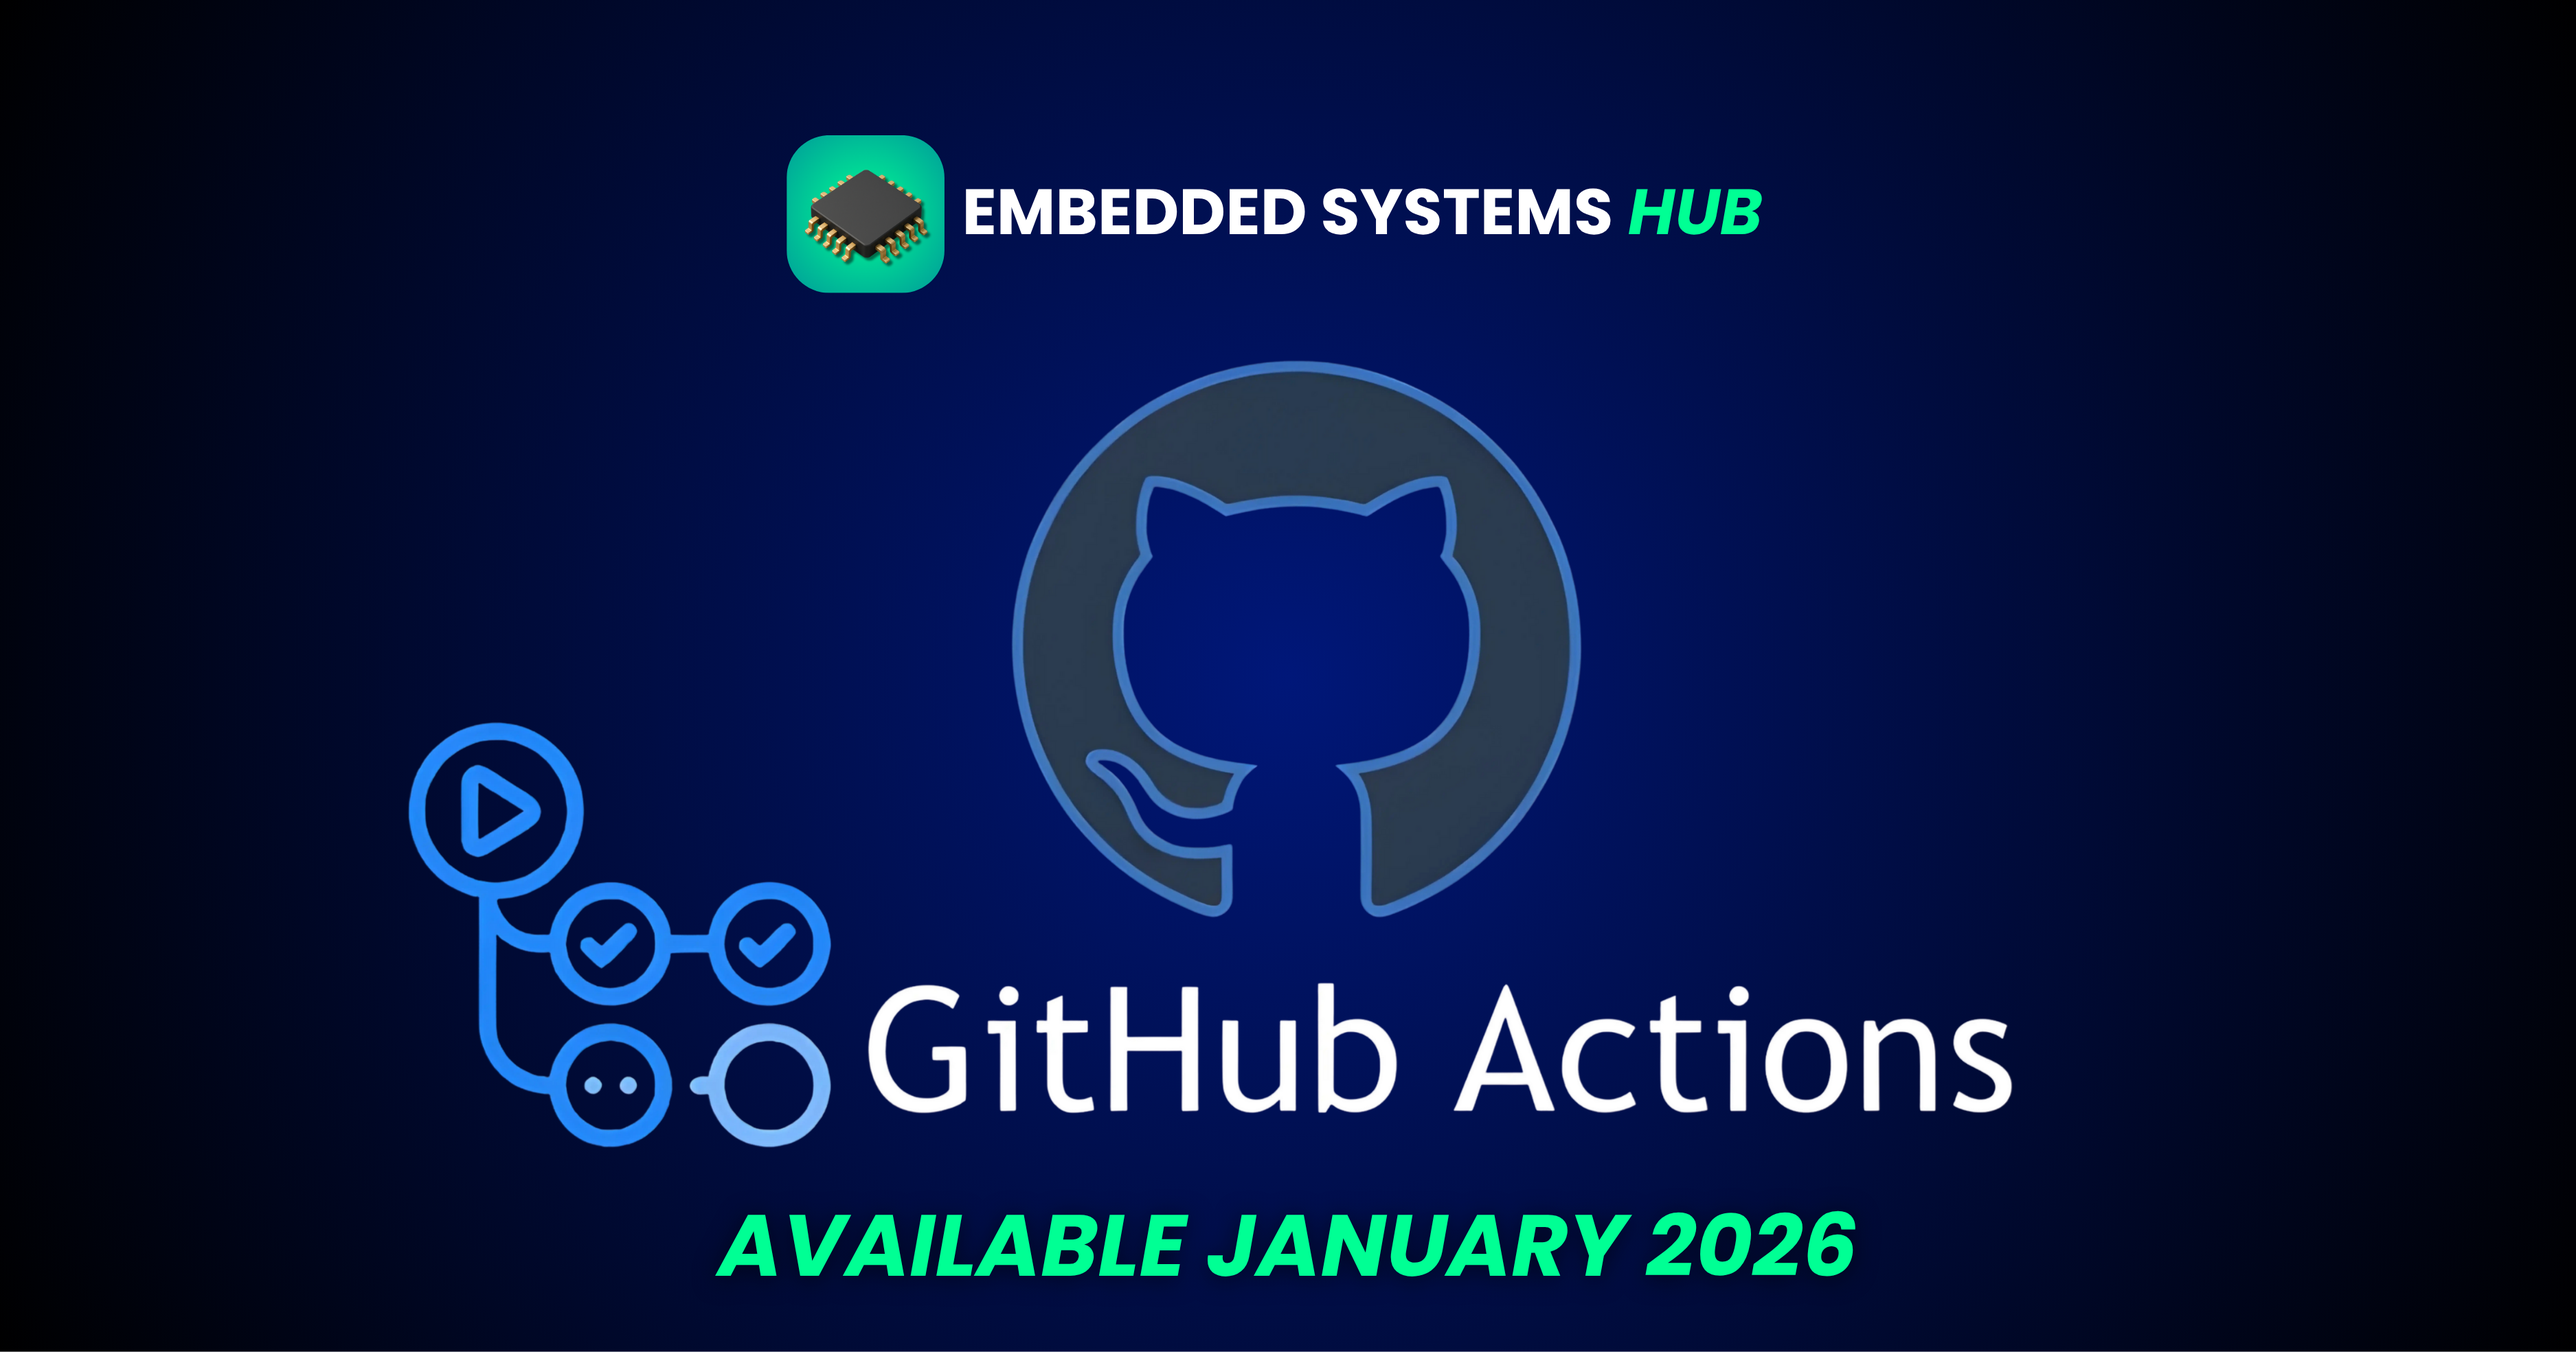
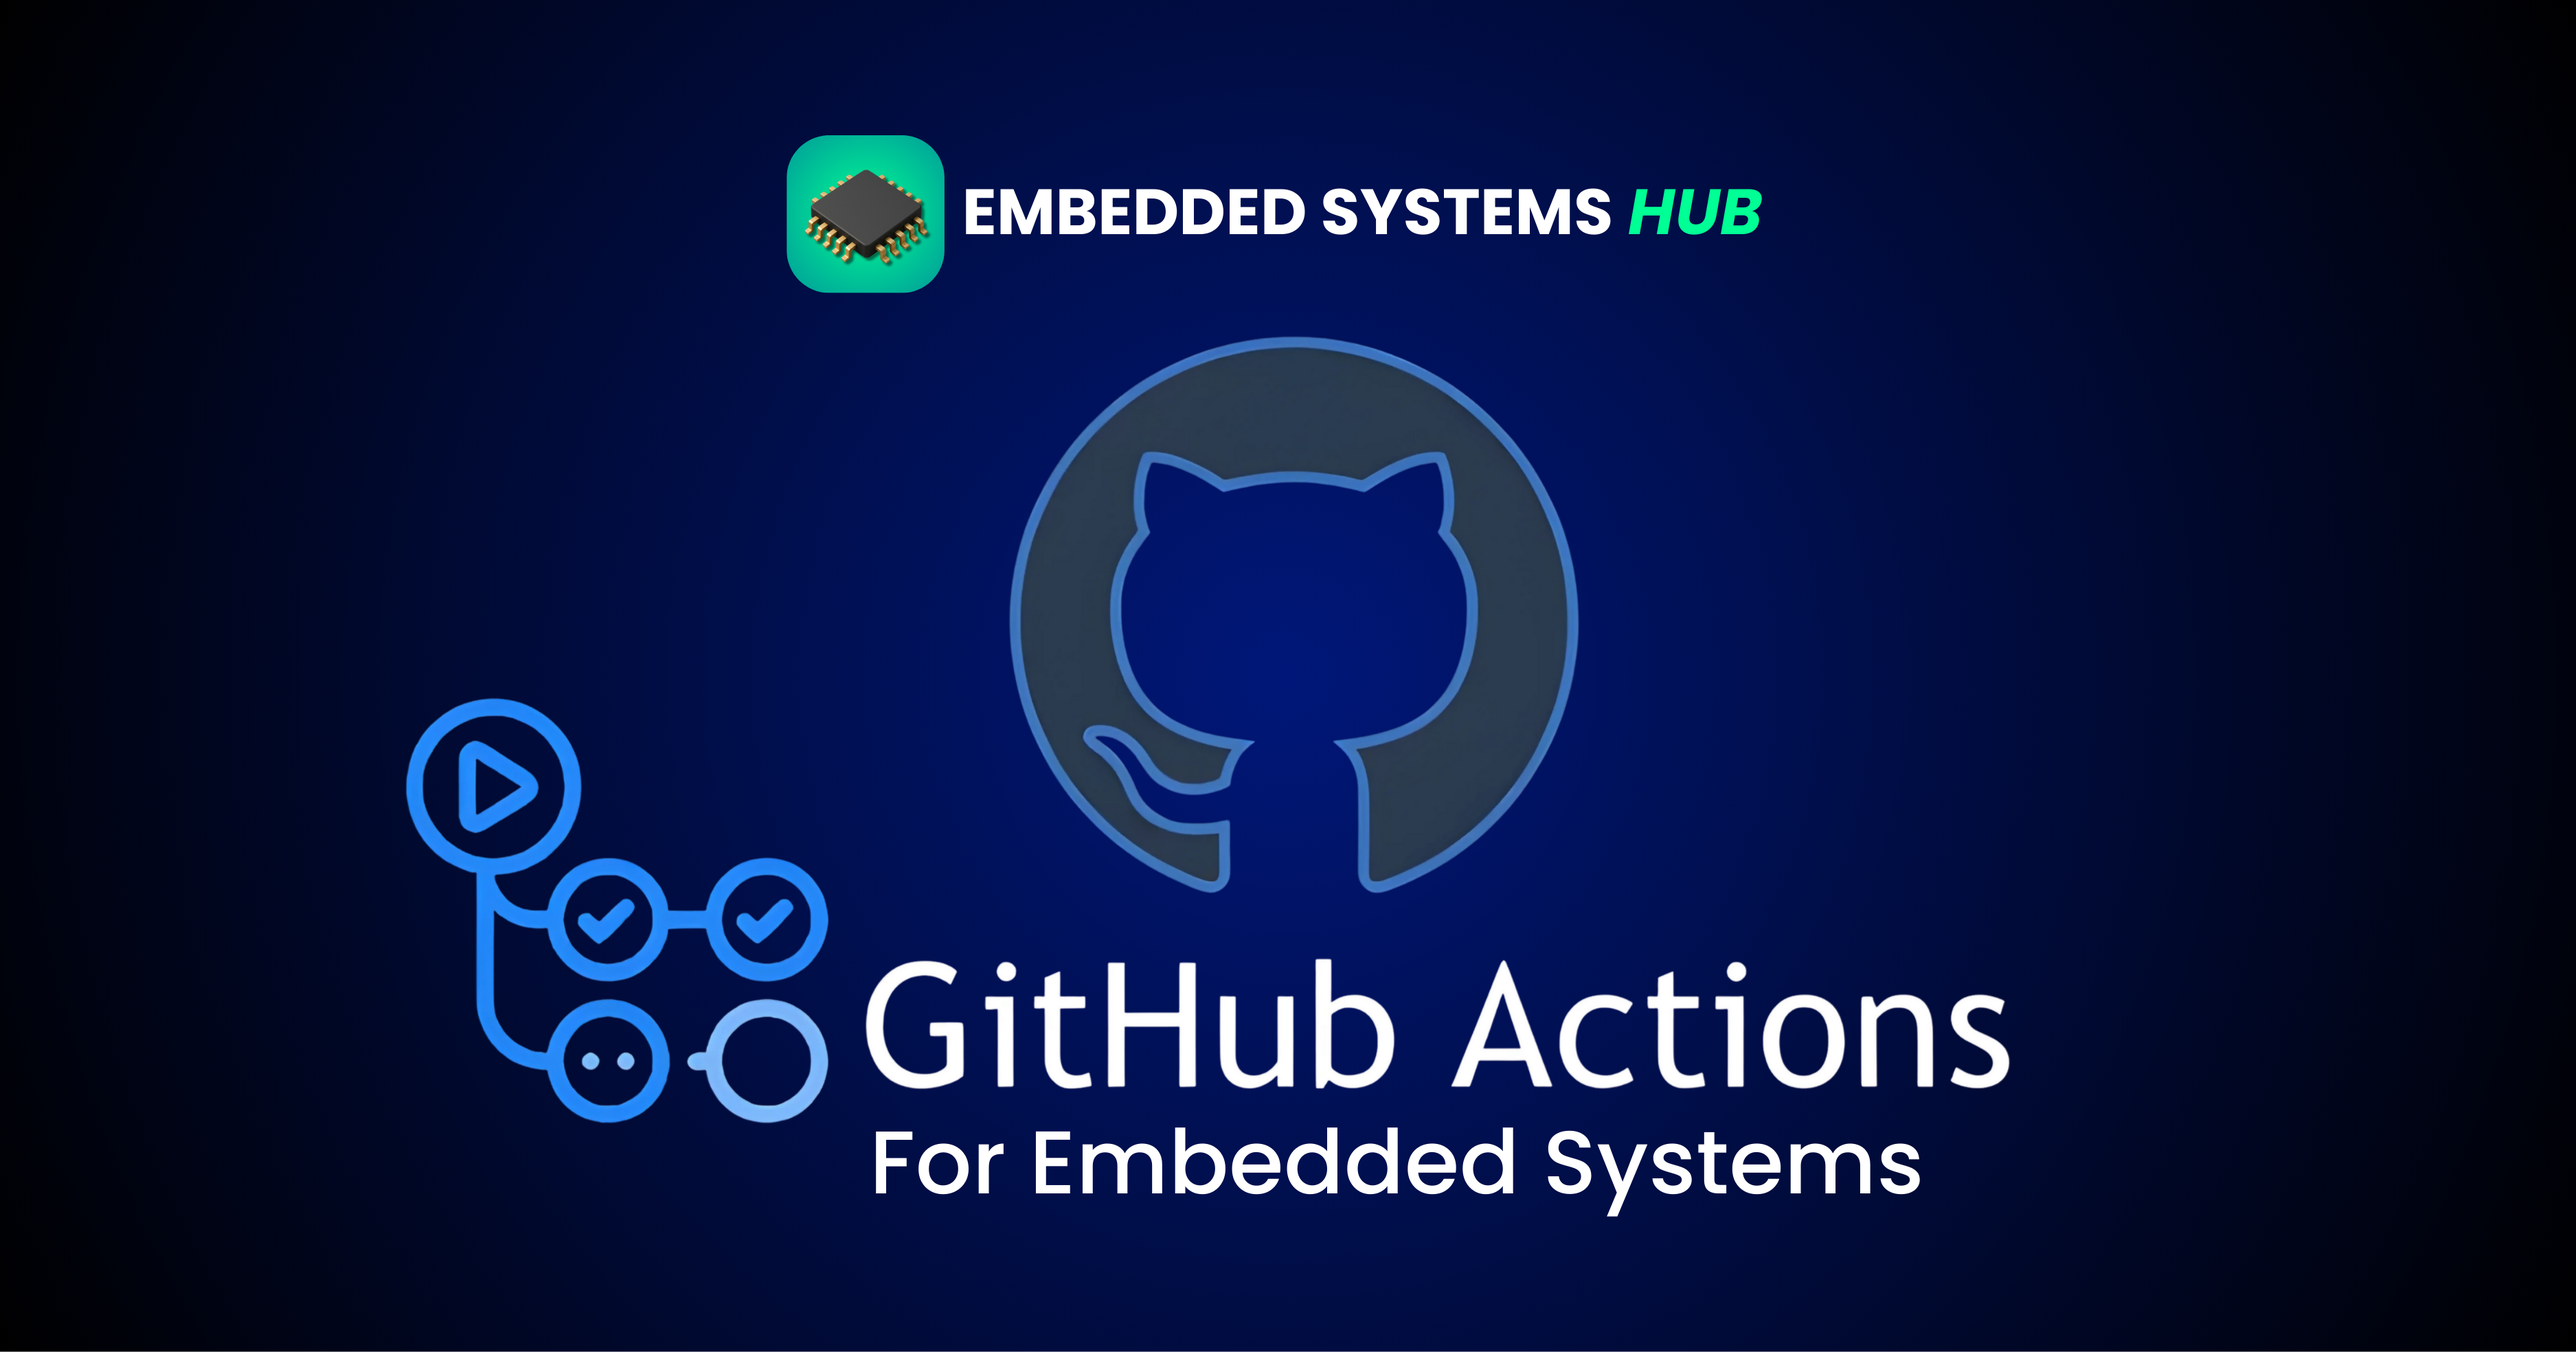
Update GitHub Actions CI/CD course details

diff --git a/profile/README.md b/profile/README.md
@@ -36,7 +36,7 @@ Once inside, you’ll have access to all current and future repositories.
 
 At the moment, this organization contains the following repositories:
 - 🗺 **[Embedded Roadmap Program](#embedded-roadmap-program)**
-- 🤖 **[GitHub Actions (CI/CD)](#github-actions)**
+- 🤖 **[GitHub Actions CI/CD](#github-actions)**
 - ⏱ **[FreeRTOS](#freertos)**
 - 🔥 **[Monthly Challenges](#monthly-challenges)**
 
@@ -110,7 +110,9 @@ You’ll learn:
 <br>
 
 <a id="github-actions"></a>
-## 🤖 GitHub Actions (CI/CD) - Available January 2026
+## 🤖 GitHub Actions CI/CD
+
+**[GitHub Actions CI/CD](https://github.com/Embedded-Systems-Hub/my-cicd-project)**
 
 <img width="500" height="1969" alt="GitHub-Actions" src="https://github.com/Embedded-Systems-Hub/.github/blob/main/assets/github-actions-cicd.png" />
 
@@ -118,12 +120,34 @@ You’ll learn:
 
 Learn how to set up a **CI/CD system for embedded projects** using GitHub Actions.
 
+**Course Structure:**
+1. Introduction
+2. CI Skeleton (Build + Artifacts)
+3. Understanding ci.yml
+4. Dockerized Builds
+5. CMake Build System
+6. Multi-Job Pipeline
+7. Non-Blocking Jobs
+8. Docker Hub Integration
+9. Release Management & Versioning
+10. Hardware Deployment (Self-Hosted Runner)
+
 You’ll learn:
-- CI/CD concepts applied to embedded systems
-- Docker-based toolchains for reproducible builds
-- Building firmware automatically on every commit
-- Adding jobs for: style checks, unit tests, coverage, and static analysis
-- Designing scalable CI pipelines ready for real projects
+- GitHub Actions workflow fundamentals (triggers, jobs, steps, artifacts).
+- Docker-based toolchains for reproducible builds.
+- CMake build system for cross-compilation.
+- Multi-job pipelines with code quality checks:
+  - Style checking with clang-format.
+  - Building with CMake + Ninja.
+  - Static analysis with cppcheck.
+  - Complexity analysis with Lizard.
+  - Unit tests with CppUTest.
+  - Coverage reporting with gcovr.
+- Docker Hub integration with dynamic tagging and caching strategies.
+- Non-blocking jobs for flexible CI during development.
+- Release management with SemVer (Semantic Versioning) and automated GitHub releases.
+- Hardware deployment using self-hosted runners (complete CI/CD).
+- Professional embedded software delivery workflows.
 
 <br>
 <br>
